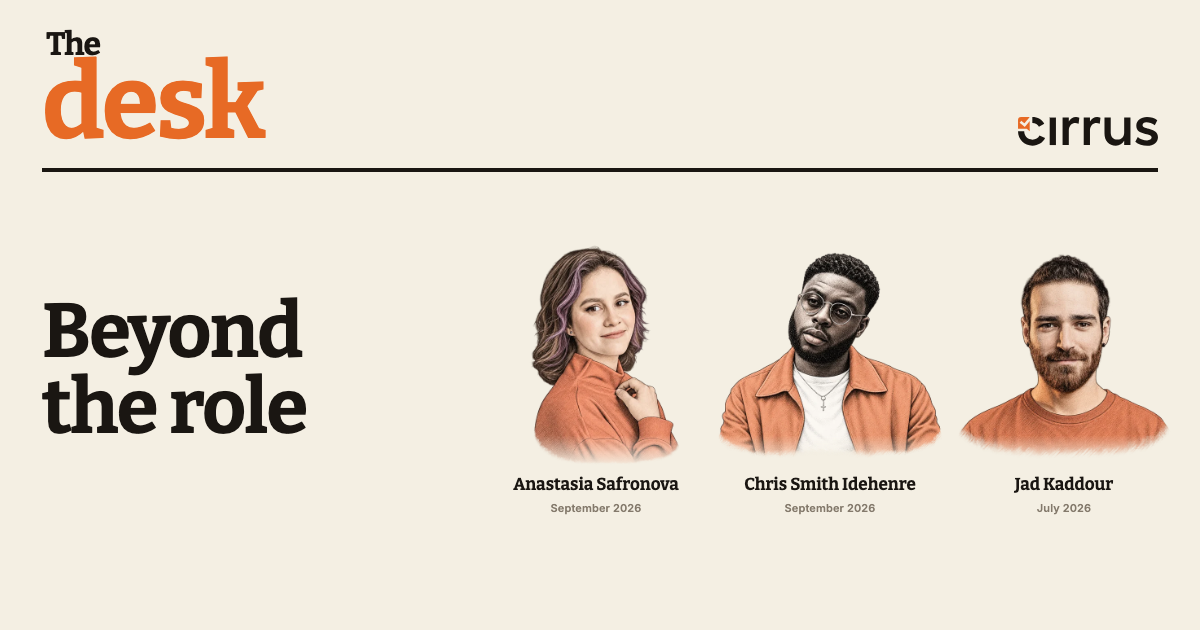
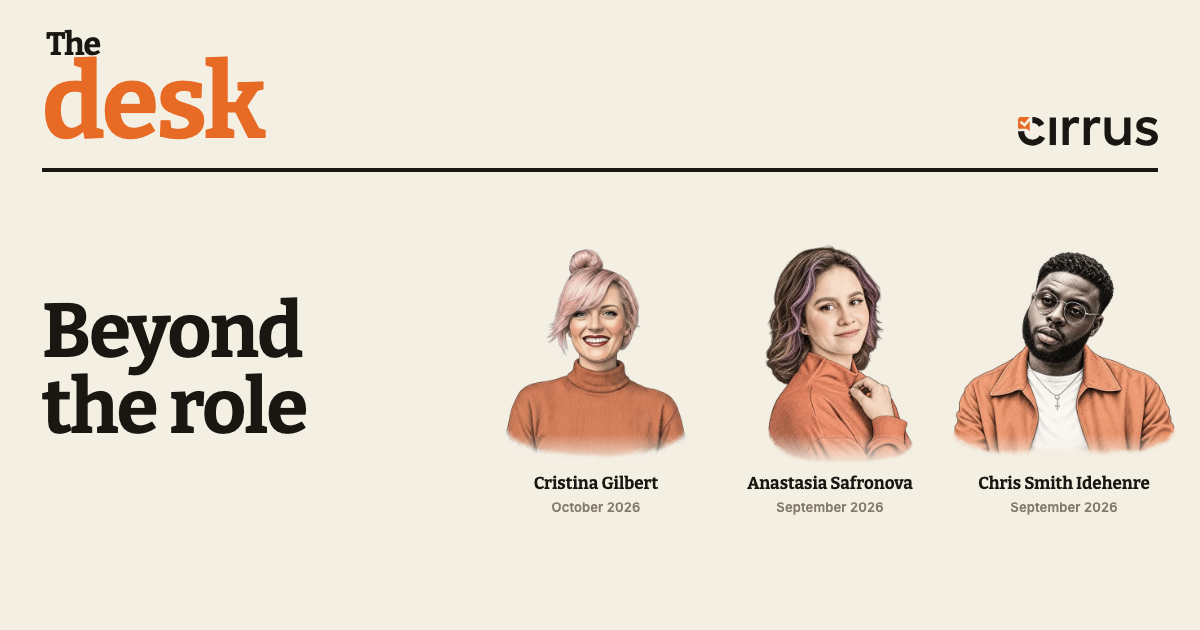
Issue 06: Beyond the role, Cristina Gilbert
Share page, month page, preview card, root redirect and portal card.

Changed region(s): [[0.4008, 0.3921, 0.9867, 0.8143], [0.8017, 0.754, 0.9558, 0.8143]]

diff --git a/2026-10/cristina-gilbert/index.html b/2026-10/cristina-gilbert/index.html
@@ -1,0 +1,66 @@
+<!DOCTYPE html>
+<html lang="en">
+<head>
+<meta charset="UTF-8">
+<meta name="viewport" content="width=device-width, initial-scale=1">
+<meta name="color-scheme" content="light">
+<title>Beyond the role: Cristina Gilbert · The desk</title>
+<link rel="canonical" href="https://cirrus-assessment.github.io/the-desk/2026-10/cristina-gilbert/">
+<link rel="icon" href="/the-desk/favicon.ico" sizes="any">
+
+<meta property="og:type" content="article">
+<meta property="og:site_name" content="The desk">
+<meta property="og:title" content="Beyond the role: Cristina Gilbert">
+<meta property="og:description" content="The Head of Strategic Partnerships on Tudor history, riding dragons, hush puppies from home and why people tell her everything.">
+<meta property="og:image" content="https://cirrus-assessment.github.io/the-desk/2026-10/cristina-gilbert/og.png?v=1">
+<meta property="og:image:width" content="1200">
+<meta property="og:image:height" content="630">
+<meta property="og:url" content="https://cirrus-assessment.github.io/the-desk/2026-10/cristina-gilbert/">
+
+<meta name="twitter:card" content="summary_large_image">
+<meta name="twitter:title" content="Beyond the role: Cristina Gilbert · The desk">
+<meta name="twitter:description" content="The Head of Strategic Partnerships on Tudor history, riding dragons, hush puppies from home and why people tell her everything.">
+<meta name="twitter:image" content="https://cirrus-assessment.github.io/the-desk/2026-10/cristina-gilbert/og.png?v=1">
+
+<link rel="preconnect" href="https://fonts.googleapis.com">
+<link rel="preconnect" href="https://fonts.gstatic.com" crossorigin>
+<link href="https://fonts.googleapis.com/css2?family=Bitter:wght@700&display=swap" rel="stylesheet">
+<style>
+  html, body { margin: 0; height: 100%; }
+  body {
+    display: grid;
+    place-items: center;
+    background: #f4efe3;
+    color: #1a1612;
+    font-family: system-ui, sans-serif;
+  }
+  .loader { display: flex; flex-direction: column; align-items: center; gap: 22px; animation: rise .6s cubic-bezier(.2,.6,.2,1) both; }
+  .wordmark { margin: 0; display: flex; flex-direction: column; font-family: Bitter, Georgia, serif; font-weight: 700; line-height: .85; letter-spacing: -.03em; }
+  .wordmark .the { margin: 0 0 0 4px; font-size: 30px; line-height: .9; }
+  .wordmark .desk { font-size: 96px; line-height: .88; color: #e76a25; }
+  @media (max-width: 600px) { .wordmark .the { font-size: 24px; } .wordmark .desk { font-size: 76px; } }
+  .dots { display: flex; gap: 8px; }
+  .dots span { width: 7px; height: 7px; border-radius: 50%; background: #e76a25; opacity: .25; animation: pulse 1.2s ease-in-out infinite; }
+  .dots span:nth-child(2) { animation-delay: .2s; }
+  .dots span:nth-child(3) { animation-delay: .4s; }
+  @keyframes pulse { 0%, 80%, 100% { opacity: .25; transform: translateY(0); } 40% { opacity: 1; transform: translateY(-4px); } }
+  @keyframes rise { from { opacity: 0; transform: translateY(8px); } to { opacity: 1; transform: none; } }
+  noscript p { margin: 0; font-size: 14px; color: #847a6c; text-align: center; }
+  @media (prefers-reduced-motion: reduce) { .loader, .dots span { animation: none; } .dots span { opacity: .6; } }
+</style>
+<style>
+/* no-caps: 2026-10-28 */
+*, *::before, *::after { text-transform: none !important; }
+</style>
+</head>
+<body>
+  <div class="loader" role="status" aria-label="Opening The desk">
+    <p class="wordmark" aria-hidden="true"><span class="the">The</span><span class="desk">desk</span></p>
+    <div class="dots" aria-hidden="true"><span></span><span></span><span></span></div>
+    <noscript><p>Sign in with your Cirrus account to read the interview.</p></noscript>
+  </div>
+  <script>
+    location.replace("https://script.google.com/a/macros/cirrusassessment.com/s/AKfycbxfD1Tcm3--GuGYBhD2GHDJOd4alf74DxJlzVUeDvksbsZrjLh_fzgbrFeE47KyaeaQ/exec?report=the-desk-2026-10-cristina-gilbert");
+  </script>
+</body>
+</html>

diff --git a/2026-10/index.html b/2026-10/index.html
@@ -1,0 +1,66 @@
+<!DOCTYPE html>
+<html lang="en">
+<head>
+<meta charset="UTF-8">
+<meta name="viewport" content="width=device-width, initial-scale=1">
+<meta name="color-scheme" content="light">
+<title>Beyond the role: Cristina Gilbert · The desk</title>
+<link rel="canonical" href="https://cirrus-assessment.github.io/the-desk/2026-10/cristina-gilbert/">
+<link rel="icon" href="/the-desk/favicon.ico" sizes="any">
+
+<meta property="og:type" content="article">
+<meta property="og:site_name" content="The desk">
+<meta property="og:title" content="Beyond the role: Cristina Gilbert">
+<meta property="og:description" content="The Head of Strategic Partnerships on Tudor history, riding dragons, hush puppies from home and why people tell her everything.">
+<meta property="og:image" content="https://cirrus-assessment.github.io/the-desk/2026-10/cristina-gilbert/og.png?v=1">
+<meta property="og:image:width" content="1200">
+<meta property="og:image:height" content="630">
+<meta property="og:url" content="https://cirrus-assessment.github.io/the-desk/2026-10/">
+
+<meta name="twitter:card" content="summary_large_image">
+<meta name="twitter:title" content="Beyond the role: Cristina Gilbert · The desk">
+<meta name="twitter:description" content="The Head of Strategic Partnerships on Tudor history, riding dragons, hush puppies from home and why people tell her everything.">
+<meta name="twitter:image" content="https://cirrus-assessment.github.io/the-desk/2026-10/cristina-gilbert/og.png?v=1">
+
+<link rel="preconnect" href="https://fonts.googleapis.com">
+<link rel="preconnect" href="https://fonts.gstatic.com" crossorigin>
+<link href="https://fonts.googleapis.com/css2?family=Bitter:wght@700&display=swap" rel="stylesheet">
+<style>
+  html, body { margin: 0; height: 100%; }
+  body {
+    display: grid;
+    place-items: center;
+    background: #f4efe3;
+    color: #1a1612;
+    font-family: system-ui, sans-serif;
+  }
+  .loader { display: flex; flex-direction: column; align-items: center; gap: 22px; animation: rise .6s cubic-bezier(.2,.6,.2,1) both; }
+  .wordmark { margin: 0; display: flex; flex-direction: column; font-family: Bitter, Georgia, serif; font-weight: 700; line-height: .85; letter-spacing: -.03em; }
+  .wordmark .the { margin: 0 0 0 4px; font-size: 30px; line-height: .9; }
+  .wordmark .desk { font-size: 96px; line-height: .88; color: #e76a25; }
+  @media (max-width: 600px) { .wordmark .the { font-size: 24px; } .wordmark .desk { font-size: 76px; } }
+  .dots { display: flex; gap: 8px; }
+  .dots span { width: 7px; height: 7px; border-radius: 50%; background: #e76a25; opacity: .25; animation: pulse 1.2s ease-in-out infinite; }
+  .dots span:nth-child(2) { animation-delay: .2s; }
+  .dots span:nth-child(3) { animation-delay: .4s; }
+  @keyframes pulse { 0%, 80%, 100% { opacity: .25; transform: translateY(0); } 40% { opacity: 1; transform: translateY(-4px); } }
+  @keyframes rise { from { opacity: 0; transform: translateY(8px); } to { opacity: 1; transform: none; } }
+  noscript p { margin: 0; font-size: 14px; color: #847a6c; text-align: center; }
+  @media (prefers-reduced-motion: reduce) { .loader, .dots span { animation: none; } .dots span { opacity: .6; } }
+</style>
+<style>
+/* no-caps: 2026-10-28 */
+*, *::before, *::after { text-transform: none !important; }
+</style>
+</head>
+<body>
+  <div class="loader" role="status" aria-label="Opening The desk">
+    <p class="wordmark" aria-hidden="true"><span class="the">The</span><span class="desk">desk</span></p>
+    <div class="dots" aria-hidden="true"><span></span><span></span><span></span></div>
+    <noscript><p>Sign in with your Cirrus account to read the interview.</p></noscript>
+  </div>
+  <script>
+    location.replace("https://script.google.com/a/macros/cirrusassessment.com/s/AKfycbxfD1Tcm3--GuGYBhD2GHDJOd4alf74DxJlzVUeDvksbsZrjLh_fzgbrFeE47KyaeaQ/exec?report=the-desk-2026-10-cristina-gilbert");
+  </script>
+</body>
+</html>

diff --git a/index.html b/index.html
@@ -8,22 +8,22 @@
 <link rel="icon" type="image/png" sizes="32x32" href="/the-desk/favicon-32.png">
 <link rel="icon" type="image/png" sizes="16x16" href="/the-desk/favicon-16.png">
 <link rel="apple-touch-icon" sizes="180x180" href="/the-desk/apple-touch-icon.png">
-<link rel="canonical" href="https://cirrus-assessment.github.io/the-desk/2026-09/anastasia-safronova/">
-<meta http-equiv="refresh" content="0; url=./2026-09/anastasia-safronova/">
+<link rel="canonical" href="https://cirrus-assessment.github.io/the-desk/2026-10/cristina-gilbert/">
+<meta http-equiv="refresh" content="0; url=./2026-10/cristina-gilbert/">
 
 <!-- OG mirrors the latest issue so a bare /the-desk/ link still unfurls; repoint each issue -->
 <meta property="og:type" content="website">
 <meta property="og:site_name" content="The desk">
-<meta property="og:title" content="Beyond the role: Anastasia Safronova">
-<meta property="og:description" content="The QA Lead on dawn birdwatching, her grandma’s perepechi and the people who make a place home.">
-<meta property="og:image" content="https://cirrus-assessment.github.io/the-desk/2026-09/anastasia-safronova/og.png?v=2">
+<meta property="og:title" content="Beyond the role: Cristina Gilbert">
+<meta property="og:description" content="The Head of Strategic Partnerships on Tudor history, riding dragons, hush puppies from home and why people tell her everything.">
+<meta property="og:image" content="https://cirrus-assessment.github.io/the-desk/2026-10/cristina-gilbert/og.png?v=1">
 <meta property="og:image:width" content="1200">
 <meta property="og:image:height" content="630">
 <meta property="og:url" content="https://cirrus-assessment.github.io/the-desk/">
 <meta name="twitter:card" content="summary_large_image">
-<meta name="twitter:title" content="Beyond the role: Anastasia Safronova · The desk">
-<meta name="twitter:description" content="The QA Lead on dawn birdwatching, her grandma’s perepechi and the people who make a place home.">
-<meta name="twitter:image" content="https://cirrus-assessment.github.io/the-desk/2026-09/anastasia-safronova/og.png?v=2">
+<meta name="twitter:title" content="Beyond the role: Cristina Gilbert · The desk">
+<meta name="twitter:description" content="The Head of Strategic Partnerships on Tudor history, riding dragons, hush puppies from home and why people tell her everything.">
+<meta name="twitter:image" content="https://cirrus-assessment.github.io/the-desk/2026-10/cristina-gilbert/og.png?v=1">
 
 <style>html,body{margin:0;height:100%;background:#F4EFE3;font-family:system-ui,-apple-system,sans-serif;color:#1A1612}body{display:flex;align-items:center;justify-content:center;text-align:center}a{color:#E76A25;text-decoration:none}</style>
 <style>
@@ -32,6 +32,6 @@
 </style>
 </head>
 <body>
-<p>Redirecting to the latest issue. <a href="./2026-09/anastasia-safronova/">Open The desk, September 2026</a></p>
+<p>Redirecting to the latest issue. <a href="./2026-10/cristina-gilbert/">Open The desk, October 2026</a></p>
 </body>
 </html>

diff --git a/beyond-the-role/index.html b/beyond-the-role/index.html
@@ -15,14 +15,14 @@
 <meta property="og:site_name" content="The desk">
 <meta property="og:title" content="Beyond the role">
 <meta property="og:description" content="Interviews from The desk with the people we work with.">
-<meta property="og:image" content="https://cirrus-assessment.github.io/the-desk/beyond-the-role/og.png?v=4">
+<meta property="og:image" content="https://cirrus-assessment.github.io/the-desk/beyond-the-role/og.png?v=5">
 <meta property="og:image:width" content="1200">
 <meta property="og:image:height" content="630">
 <meta property="og:url" content="https://cirrus-assessment.github.io/the-desk/beyond-the-role/">
 <meta name="twitter:card" content="summary_large_image">
 <meta name="twitter:title" content="Beyond the role · The desk">
 <meta name="twitter:description" content="Interviews from The desk with the people we work with.">
-<meta name="twitter:image" content="https://cirrus-assessment.github.io/the-desk/beyond-the-role/og.png?v=4">
+<meta name="twitter:image" content="https://cirrus-assessment.github.io/the-desk/beyond-the-role/og.png?v=5">
 
 <link rel="preconnect" href="https://fonts.googleapis.com">
 <link rel="preconnect" href="https://fonts.gstatic.com" crossorigin>
@@ -103,9 +103,19 @@
 
   <ul class="grid">
     <li class="card">
+      <a href="../2026-10/cristina-gilbert/" aria-label="Read the interview with Cristina Gilbert">
+        <div class="portrait"><img src="portraits/cristina-gilbert.webp" alt="" width="560" height="560" loading="eager"></div>
+        <p class="meta">October 2026<span class="new">Latest</span></p>
+        <h2>Cristina Gilbert</h2>
+        <p class="role">Head of Strategic Partnerships</p>
+        <p class="stand">On Tudor history, riding dragons, hush puppies from home and why people tell her everything.</p>
+        <span class="read">Read the interview <span aria-hidden="true">→</span></span>
+      </a>
+    </li>
+    <li class="card">
       <a href="../2026-09/anastasia-safronova/" aria-label="Read the interview with Anastasia Safronova">
         <div class="portrait"><img src="portraits/anastasia-safronova.webp" alt="" width="560" height="560" loading="eager"></div>
-        <p class="meta">September 2026<span class="new">Latest</span></p>
+        <p class="meta">September 2026</p>
         <h2>Anastasia Safronova</h2>
         <p class="role">QA Lead</p>
         <p class="stand">On dawn birdwatching, her grandma’s perepechi and the people who make a place home.</p>
@@ -124,7 +134,7 @@
     </li>
     <li class="card">
       <a href="../2026-07/jad-kaddour/" aria-label="Read the interview with Jad Kaddour">
-        <div class="portrait"><img src="portraits/jad-kaddour.webp" alt="" width="560" height="560" loading="eager"></div>
+        <div class="portrait"><img src="portraits/jad-kaddour.webp" alt="" width="560" height="560" loading="lazy"></div>
         <p class="meta">July 2026</p>
         <h2>Jad Kaddour</h2>
         <p class="role">Solutions Engineer</p>

diff --git a/README.md b/README.md
@@ -30,6 +30,11 @@ stay behind Google sign-in.
                        Issue 05, "Beyond the role: Anastasia Safronova"
         index.html     OG / Twitter meta + a top-level redirect to the live report
         og.png         1200x630 preview card for this article
+    /2026-10/          October 2026, Issue 06; opens Cristina's interview
+      cristina-gilbert/
+                       Issue 06, "Beyond the role: Cristina Gilbert"
+        index.html     OG / Twitter meta + a top-level redirect to the live report
+        og.png         1200x630 preview card for this article
 
 The issue page redirects (it does not iframe) the reader to the Google
 sign-in report. A top-level navigation lets the normal Cirrus sign-in run
@@ -47,10 +52,12 @@ The icon is the orange "d" from the wordmark on the cream ground.
    og:description) and a 1200x630 og.png preview card.
 2. Repoint the root redirect and the root OG block at the new issue.
 
-Latest: https://cirrus-assessment.github.io/the-desk/2026-09/anastasia-safronova/
+Latest: https://cirrus-assessment.github.io/the-desk/2026-10/cristina-gilbert/
 
-The root redirect and preview now point at Issue 05. The /2026-09/ issue page
+The root redirect and preview now point at Issue 06. The /2026-09/ issue page
 still opens Chris's Issue 04, so links already shared keep working.
+
+Issue 05 share link: https://cirrus-assessment.github.io/the-desk/2026-09/anastasia-safronova/
 
 Issue 02 share link: https://cirrus-assessment.github.io/the-desk/2026-07/jad-kaddour/
 
